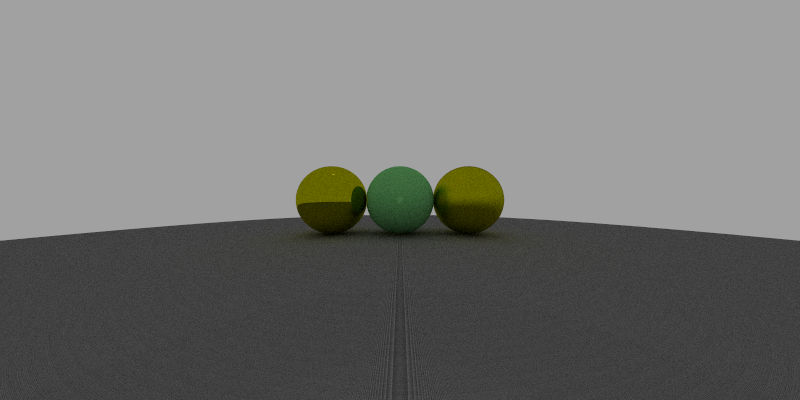
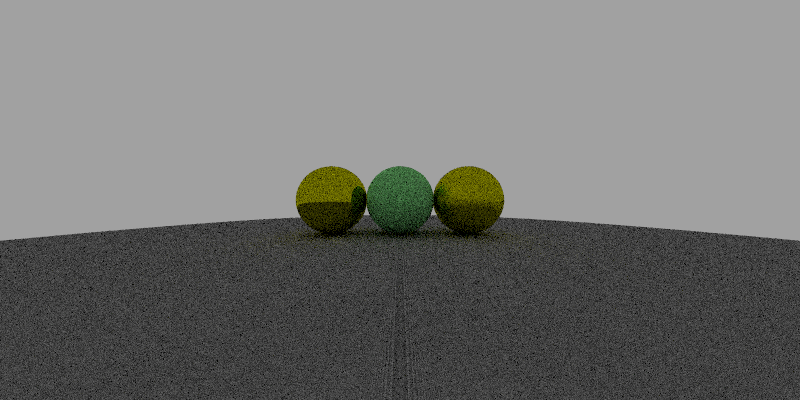
rand_() updated

diff --git a/TenGigaRays/material.h b/TenGigaRays/material.h
@@ -1,9 +1,11 @@
 #pragma once
 #include "ray.h"
 #include "hitable.h"
-
+#include <random>
 float rand_() {
-    return (-1 + (float(rand()) / (float)RAND_MAX) * 2);
+    static thread_local auto rnd  = std::mt19937();
+    static thread_local auto dist = std::uniform_real_distribution<float>(-1.f, 1.f);
+    return dist(rnd);
 }
 
 vec3 random_in_unit_sphere() {

diff --git a/TenGigaRays/Source.cpp b/TenGigaRays/Source.cpp
@@ -91,7 +91,7 @@ void first_projection() {
     // Screen size and a screen buffers
     constexpr int w    = 800;
     constexpr int h    = 400;
-    constexpr int SSAA = 2600;
+    constexpr int SSAA = 200;
     constexpr int thd  = 20;
     static_assert(SSAA % thd == 0, "jobs must be evenly sliced!");
 
